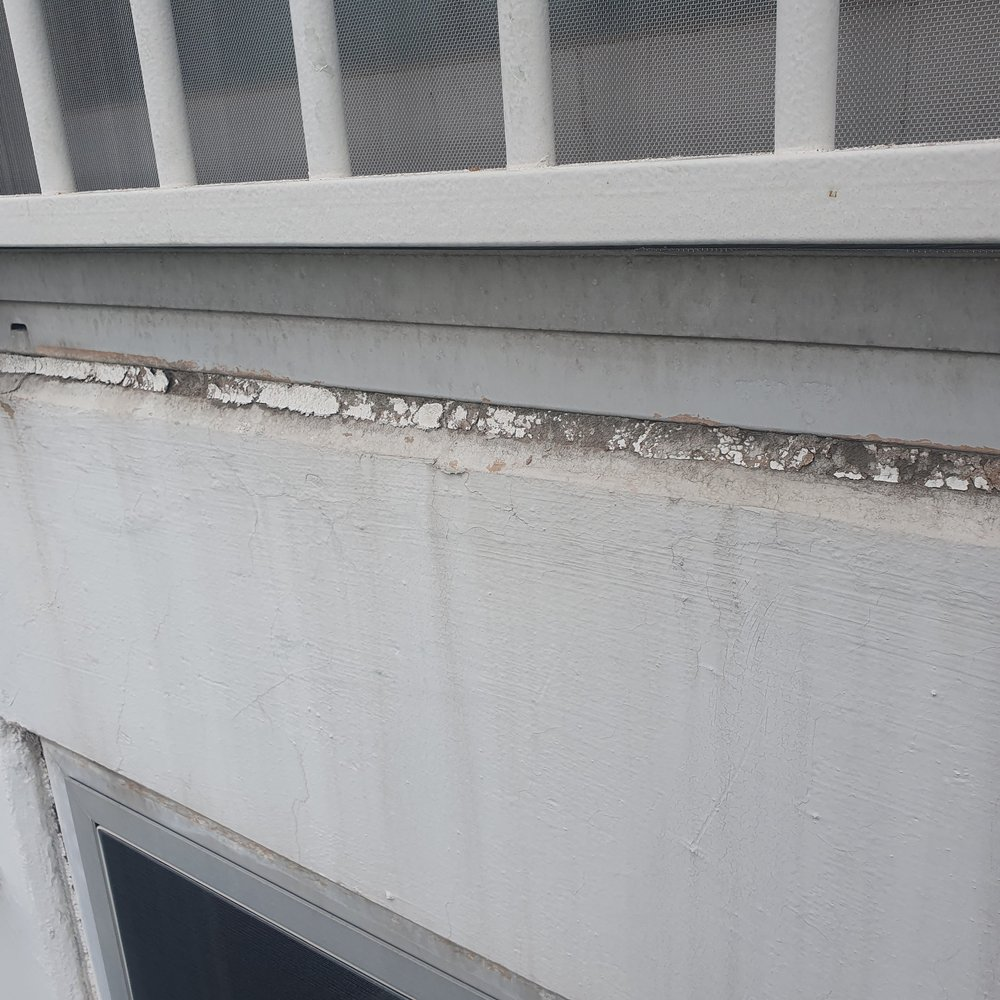
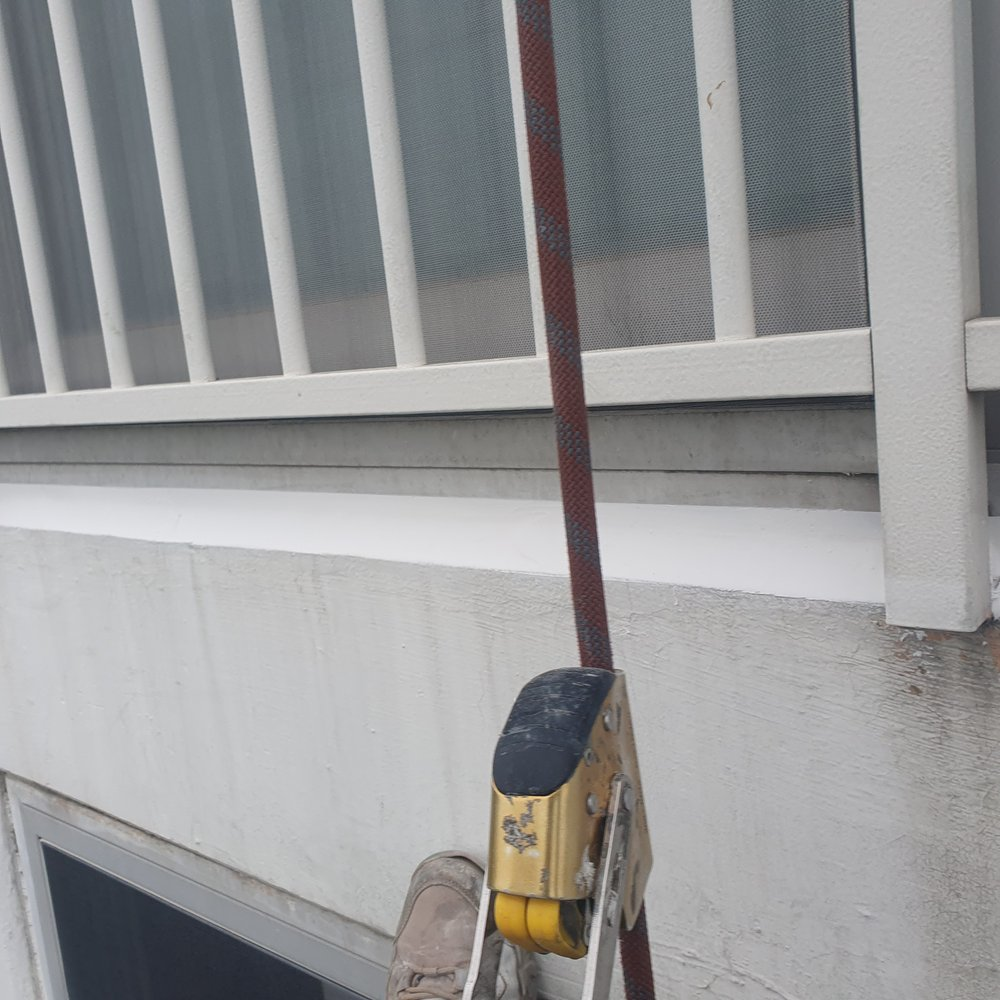
Add files via upload

diff --git a/data/services.js b/data/services.js
@@ -2,23 +2,19 @@
 // key 값(예: "창틀누수")이 URL 뒤쪽에 그대로 들어갑니다.
 //   예: /역곡동-창틀누수  →  region="역곡동", serviceKey="창틀누수"
 //
-// 문구 형식: "OO동 OO 전문시공" 스타일로 통일했습니다.
+// ⭐⭐ 중요: headings 배열 안의 문구는 전부 "실제 공략 키워드" 그 자체입니다.
+// 예전처럼 "정밀 진단 시공" 같은 다른 표현으로 랜덤하게 바뀌지 않고,
+// 여기 적힌 문구가 그대로 페이지 제목에 들어갑니다 (지역명만 앞에 붙음).
+// 그래서 이 배열에는 절대로 목표 키워드가 아닌 문장을 넣으면 안 됩니다.
+// (실리콘시공만 예외로, 목표 키워드 3개를 지역마다 하나씩 돌아가며 보여줍니다
+//  — 3개 다 진짜 키워드라서 어느 지역에 걸리든 누락되는 키워드가 없습니다.)
 //
-// 지역이 많아진 만큼(172개 x 11개 서비스), 문장이 너무 반복되지 않도록
-// headings/intros 각각 4개씩 변형을 넣어뒀습니다 (지역명 기준으로 자동으로
-// 그 중 하나가 선택됩니다 — 완전 랜덤이 아니라 같은 지역은 항상 같은 버전이
-// 나오도록 고정되어 있습니다).
+// intros(본문 설명 문장)는 지역마다 다르게 보이도록 여러 버전을 넣어뒀습니다.
 
 export const SERVICES = {
   창틀누수: {
     label: "창틀누수 전문시공",
-    headings: [
-      (r) => `${r} 창틀누수 전문시공`,
-      (r) => `${r} 창틀누수, 근본 원인부터 잡아드립니다`,
-      (r) => `${r} 창틀누수 정밀 진단 시공`,
-      (r) => `${r}에서 진행하는 창틀누수 시공`,
-      (r) => `${r} 창틀누수 업체 추천, 베란다 누수까지 함께 진단합니다`,
-    ],
+    headings: [(r) => `${r} 창틀누수 전문시공`],
     intros: [
       (r) => `${r} 지역에서 창틀누수(샷시 틈새, 프레임 노후화) 문제로 고민하고 계시다면 레노베이가 해결해드립니다. 정밀 진단 후 근본 원인부터 해결하는 시공을 진행합니다.`,
       (r) => `${r} 지역으로 출장 가능합니다. 창틀누수는 대부분 프레임 접합부의 미세 균열이나 실리콘 노후화가 원인으로, 로프 접근 방식으로 외벽 접합부까지 꼼꼼히 점검한 뒤 시공합니다.`,
@@ -36,13 +32,7 @@ export const SERVICES = {
 
   외벽누수: {
     label: "외벽누수 전문시공",
-    headings: [
-      (r) => `${r} 외벽누수 전문시공`,
-      (r) => `${r} 외벽누수 원인 진단 및 방수 시공`,
-      (r) => `${r} 외벽누수 정밀 진단 시공`,
-      (r) => `${r}에서 진행하는 외벽누수 시공`,
-      (r) => `${r} 베란다 누수 전문, 외벽까지 함께 진단합니다`,
-    ],
+    headings: [(r) => `${r} 외벽누수 전문시공`],
     intros: [
       (r) => `${r} 지역에서 건물 외벽 빗물 누수로 고민하고 계시다면 레노베이가 해결해드립니다. 로프 접근 방식으로 정밀 점검 후 방수 및 실리콘 보수 시공을 진행합니다.`,
       (r) => `${r} 지역으로 출장 가능합니다. 외벽 크랙, 접합부 틈새로 인한 누수를 전문 장비로 추적하여 근본 원인을 찾아낸 뒤 시공합니다.`,
@@ -60,43 +50,35 @@ export const SERVICES = {
 
   옥상방수: {
     label: "옥상방수 전문시공",
-    headings: [
-      (r) => `${r} 옥상방수 전문시공`,
-      (r) => `${r} 옥상 누수, 방수 시공으로 해결합니다`,
-      (r) => `${r} 옥상방수 정밀 시공`,
-      (r) => `${r}에서 진행하는 옥상방수 시공`,
-    ],
+    headings: [(r) => `${r} 옥상방수 전문시공`],
     intros: [
       (r) => `${r} 지역에서 옥상 누수 문제로 고민하고 계시다면 레노베이가 해결해드립니다. 방수층 노후화, 크랙을 진단 후 현장에 맞는 방수 공법으로 시공합니다.`,
       (r) => `${r} 지역으로 출장 가능합니다. 옥상 누수는 방치할수록 아래층 피해로 이어지는 만큼, 정확한 원인 진단 후 재발 없는 방수 시공을 진행합니다.`,
       (r) => `${r}의 옥상 방수층이 노후화되면 크랙을 따라 누수가 시작됩니다. 현장 상태에 맞는 방수 공법으로 시공해드립니다.`,
       (r) => `${r} 옥상방수, 진단부터 시공까지 책임지고 진행합니다.`,
+      (r) => `${r} 로프 방수 업체를 찾고 계신다면, 비계 없이 옥상까지 빠르게 접근해 시공하는 레노베이가 가능합니다.`,
     ],
     bullets: [
       () => `옥상 방수층 상태 무상 점검`,
       () => `우레탄/시트 방수 등 맞춤 공법`,
-      () => `크랙 보수 후 방수층 시공`,
+      () => `로프 방수 업체로 비계 없이 신속 시공`,
       () => `시공 후 하자 보증`,
     ],
   },
 
   외벽방수: {
     label: "외벽방수 전문시공",
-    headings: [
-      (r) => `${r} 외벽방수 전문시공`,
-      (r) => `${r} 외벽방수 시공, 책임지고 시공해드립니다`,
-      (r) => `${r} 외벽방수 정밀 시공`,
-      (r) => `${r}에서 진행하는 외벽방수 시공`,
-    ],
+    headings: [(r) => `${r} 외벽방수 전문시공`],
     intros: [
       (r) => `${r} 지역으로 출장 가능합니다. 건물 외벽 방수를 로프 접근 방식으로 진행하여 비계 설치 없이 신속하게 시공합니다.`,
       (r) => `${r} 지역에서 외벽 방수 문제로 고민하고 계시다면 레노베이가 해결해드립니다. 외벽 도장 노후화, 크랙으로 인한 방수 기능 저하를 정밀 점검 후 시공합니다.`,
       (r) => `${r}의 외벽은 시간이 지나면 도장과 방수층이 함께 약해집니다. 정밀 점검 후 맞춤 공법으로 시공해드립니다.`,
       (r) => `${r} 외벽방수, 비계 없이 로프 접근으로 신속하고 정밀하게 진행합니다.`,
+      (r) => `${r} 로프 방수 업체를 찾고 계신다면 레노베이가 가능합니다. 비계 설치 없이 로프 접근만으로 외벽 방수를 진행합니다.`,
     ],
     bullets: [
       () => `현장 무상 견적`,
-      () => `고소차량 없이 전문로프 접근으로 정밀 시공`,
+      () => `로프 방수 업체로 고소차량 없이 정밀 시공`,
       () => `외벽 크랙 보수 병행`,
       () => `아파트 고층도 시공 가능`,
     ],
@@ -104,13 +86,7 @@ export const SERVICES = {
 
   창틀코킹: {
     label: "창틀코킹 전문시공",
-    headings: [
-      (r) => `${r} 창틀코킹 전문시공`,
-      (r) => `${r} 창틀코킹, 정밀시공으로 완벽하게`,
-      (r) => `${r} 창틀코킹 정밀 시공`,
-      (r) => `${r}에서 진행하는 창틀코킹 시공`,
-      (r) => `${r} 로프코킹 작업비용, 현장 확인 후 정확하게 안내드립니다`,
-    ],
+    headings: [(r) => `${r} 창틀코킹 전문시공`],
     intros: [
       (r) => `${r} 지역에서 창틀 코킹 노후화로 인한 틈새 누수로 고민하고 계시다면 레노베이가 해결해드립니다. 기존 코킹을 완전 제거하고 재시공합니다.`,
       (r) => `${r} 지역으로 출장 가능합니다. 창틀 주변 코킹 균열, 탈락 부위를 꼼꼼히 확인하여 정석 시공합니다.`,
@@ -126,14 +102,15 @@ export const SERVICES = {
     ],
   },
 
+  // ⭐ 실리콘시공만 예외적으로 headings가 3개입니다.
+  // 셋 다 실제 목표 키워드(샷시 실리콘/창틀 실리콘/창문 실리콘 전문시공)라서
+  // 어느 지역에 어떤 게 걸리든 목표 키워드가 누락되지 않습니다.
   실리콘시공: {
     label: "실리콘 전문시공",
     headings: [
-      (r) => `${r} 실리콘 시공`,
-      (r) => `${r} 샷시·창틀 실리콘 시공`,
-      (r) => `${r} 실리콘 정밀 시공`,
-      (r) => `${r}에서 진행하는 실리콘 시공`,
-      (r) => `${r} 창문 실리콘·샷시 실리콘 교체, 보수 비용까지 안내드립니다`,
+      (r) => `${r} 샷시 실리콘 전문시공`,
+      (r) => `${r} 창틀 실리콘 전문시공`,
+      (r) => `${r} 창문 실리콘 전문시공`,
     ],
     intros: [
       (r) => `${r} 지역으로 출장 가능합니다. 샷시, 창틀, 베란다 실리콘 노후화를 정밀 진단 후 재시공합니다. 단순 덧방이 아닌 구조 분석 기반 시공입니다.`,
@@ -152,12 +129,7 @@ export const SERVICES = {
 
   외벽보수: {
     label: "외벽보수 전문시공",
-    headings: [
-      (r) => `${r} 외벽보수 전문시공`,
-      (r) => `${r} 외벽 크랙·박리 보수 시공`,
-      (r) => `${r} 외벽보수 정밀 시공`,
-      (r) => `${r}에서 진행하는 외벽보수 시공`,
-    ],
+    headings: [(r) => `${r} 외벽보수 전문시공`],
     intros: [
       (r) => `${r} 지역에서 건물 외벽의 크랙, 박리, 백화현상으로 고민하고 계시다면 레노베이가 해결해드립니다. 정밀 점검 후 구조 보강과 함께 보수 시공합니다.`,
       (r) => `${r} 지역으로 출장 가능합니다. 외벽 노후화로 인한 구조적 손상을 로프 접근 방식으로 점검하고 맞춤 보수합니다.`,
@@ -173,13 +145,8 @@ export const SERVICES = {
   },
 
   누수탐지: {
-    label: "빗물누수문제 전문시공",
-    headings: [
-      (r) => `${r} 빗물누수문제 전문시공`,
-      (r) => `${r} 누수 원인, 정확하게 찾아드립니다`,
-      (r) => `${r} 빗물누수문제 정밀 진단`,
-      (r) => `${r}에서 진행하는 누수진단`,
-    ],
+    label: "누수탐지 전문시공",
+    headings: [(r) => `${r} 누수탐지 전문시공`],
     intros: [
       (r) => `${r} 지역으로 출장 가능합니다. 누수 의심 부위를 전문 장비로 추적하여 정확한 원인을 찾아낸 뒤 맞춤 보수를 진행합니다.`,
       (r) => `${r} 지역에서 원인 불명 누수, 반복되는 누수로 고민하고 계시다면 레노베이가 해결해드립니다. 정밀 장비로 진단하여 근본 해결책을 제시합니다.`,
@@ -191,6 +158,59 @@ export const SERVICES = {
       () => `장비를 통한 비파괴 진단`,
       () => `원인 확인 후 맞춤 보수 시공`,
       () => `재발 방지 관리`,
+    ],
+  },
+
+  // ===== 신규 추가 서비스 (누락 방지용) =====
+
+  빗물누수: {
+    label: "빗물누수 전문시공",
+    headings: [(r) => `${r} 빗물누수 전문시공`],
+    intros: [
+      (r) => `${r} 지역에서 빗물누수로 고민하고 계시다면 레노베이가 해결해드립니다. 창틀·외벽·옥상 등 원인이 될 수 있는 부위를 폭넓게 진단한 뒤 근본 원인부터 시공합니다.`,
+      (r) => `${r} 지역으로 출장 가능합니다. 빗물누수는 눈에 보이는 곳이 원인이 아닌 경우가 많아, 정밀 진단을 통해 실제 유입 경로를 찾아냅니다.`,
+      (r) => `${r}에서 비만 오면 반복되는 빗물누수, 임시방편이 아닌 구조 분석 기반의 정밀 시공으로 해결해드립니다.`,
+      (r) => `${r} 빗물누수, 원인 진단부터 재시공까지 책임지고 진행합니다.`,
+    ],
+    bullets: [
+      () => `창틀·외벽·옥상 통합 원인 진단 (무상)`,
+      () => `로프 접근으로 비계 없이 정밀 시공`,
+      () => `현장 상황에 맞춘 방수·코킹 공법`,
+      () => `시공 후 재발 방지 관리`,
+    ],
+  },
+
+  건물방수: {
+    label: "건물방수 전문시공",
+    headings: [(r) => `${r} 건물방수 전문시공`],
+    intros: [
+      (r) => `${r} 지역에서 건물 전체의 방수 문제로 고민하고 계시다면 레노베이가 해결해드립니다. 옥상·외벽·창틀을 아우르는 통합 진단 후 맞춤 방수 공법으로 시공합니다.`,
+      (r) => `${r} 지역으로 출장 가능합니다. 건물방수는 한 부위만 시공하면 다른 곳에서 다시 새는 경우가 많아, 건물 전체를 함께 점검합니다.`,
+      (r) => `${r}의 건물방수, 로프 접근으로 비계 없이 옥상부터 외벽까지 신속하게 진행합니다.`,
+      (r) => `${r} 건물방수, 정밀 진단부터 시공, 하자 보증까지 책임집니다.`,
+    ],
+    bullets: [
+      () => `옥상·외벽·창틀 통합 진단 (무상)`,
+      () => `현장 맞춤 방수 공법 적용`,
+      () => `로프 접근으로 비계 없이 시공`,
+      () => `시공 후 하자 보증`,
+    ],
+  },
+
+  빌라누수: {
+    label: "빌라누수 전문시공",
+    headings: [(r) => `${r} 빌라누수 전문시공`],
+    intros: [
+      (r) => `${r} 지역에서 빌라누수로 고민하고 계시다면 레노베이가 해결해드립니다. 빌라는 아파트보다 관리가 소홀해지기 쉬워 누수가 반복되는 경우가 많아, 근본 원인부터 진단합니다.`,
+      (r) => `${r} 지역으로 출장 가능합니다. 옥상·창틀·외벽 등 빌라 특유의 취약 부위를 꼼꼼히 점검한 뒤 맞춤 시공을 진행합니다.`,
+      (r) => `${r}의 빌라누수는 관리사무소가 없어 방치되기 쉽습니다. 소규모 현장도 정밀 진단 후 책임 시공해드립니다.`,
+      (r) => `${r} 빌라누수, 옥상 방수부터 창틀 코킹까지 필요한 공정만 정직하게 제안합니다.`,
+    ],
+    bullets: [
+      () => `빌라 특화 현장 무상 진단`,
+      () => `옥상·창틀·외벽 동시 점검`,
+      () => `소규모 현장도 맞춤 견적`,
+      () => `시공 후 재발 방지 관리`,
     ],
   },
 };

diff --git a/components/BrandPhotoSection.jsx b/components/BrandPhotoSection.jsx
@@ -1,28 +1,55 @@
 // ⭐ 사진을 바꾸려면 public/images/brand/bottom-photo.jpg 파일을 같은 이름으로
 // 덮어쓰기만 하면 됩니다. 가로형 사진이 잘 어울립니다.
 //
-// 테두리가 서서히 배경색으로 사라지는 비네트(vignette) 효과를 CSS로 줘서,
-// 사진을 딱 잘라 붙인 것처럼 보이지 않게 처리했습니다.
+// 사진 뒤에 같은 사진을 크게 확대해서 흐리게 깐 다음, 그 위에 선명한 사진을
+// 부드러운 페더(feather) 마스크로 얹는 방식입니다. 그래서 사진 가장자리가
+// 배경색으로 뚝 끊기지 않고, 흐릿한 자기 자신 위로 자연스럽게 녹아듭니다.
 
 export default function BrandPhotoSection({ src = "/images/brand/bottom-photo.jpg" }) {
-  const maskStyle = {
-    maskImage: "radial-gradient(ellipse 75% 80% at center, black 55%, transparent 100%)",
+  const featherMask = {
+    maskImage:
+      "radial-gradient(ellipse 68% 62% at center, black 45%, transparent 92%)",
     WebkitMaskImage:
-      "radial-gradient(ellipse 75% 80% at center, black 55%, transparent 100%)",
+      "radial-gradient(ellipse 68% 62% at center, black 45%, transparent 92%)",
   };
 
   return (
-    <section style={{ padding: "56px 0" }}>
-      <div className="container" style={{ maxWidth: 900 }}>
+    <section style={{ padding: "64px 0" }}>
+      <div
+        className="container"
+        style={{
+          maxWidth: 920,
+          position: "relative",
+          aspectRatio: "16 / 9",
+        }}
+      >
+        {/* 배경: 같은 사진을 크게 확대 + 강하게 블러 처리 */}
+        <img
+          src={src}
+          alt=""
+          aria-hidden="true"
+          style={{
+            position: "absolute",
+            inset: 0,
+            width: "100%",
+            height: "100%",
+            objectFit: "cover",
+            filter: "blur(60px) saturate(1.1)",
+            transform: "scale(1.25)",
+            opacity: 0.9,
+          }}
+        />
+        {/* 전경: 선명한 사진, 가장자리를 부드럽게 페더 처리 */}
         <img
           src={src}
           alt="레노베이 현장"
           style={{
+            position: "relative",
             width: "100%",
-            aspectRatio: "16 / 9",
+            height: "100%",
             objectFit: "cover",
             display: "block",
-            ...maskStyle,
+            ...featherMask,
           }}
         />
       </div>

diff --git a/data/site-content.js b/data/site-content.js
@@ -47,7 +47,7 @@ export const SITE = {
   video: {
     sectionEyebrow: "현장 영상",
     sectionTitle: "영상으로 먼저 확인하세요",
-    videoId: "GpdvpMPIgdM",
+    videoId: "3idDfE0-dPM",
   },
 
   // ===== 신뢰도 숫자 =====
